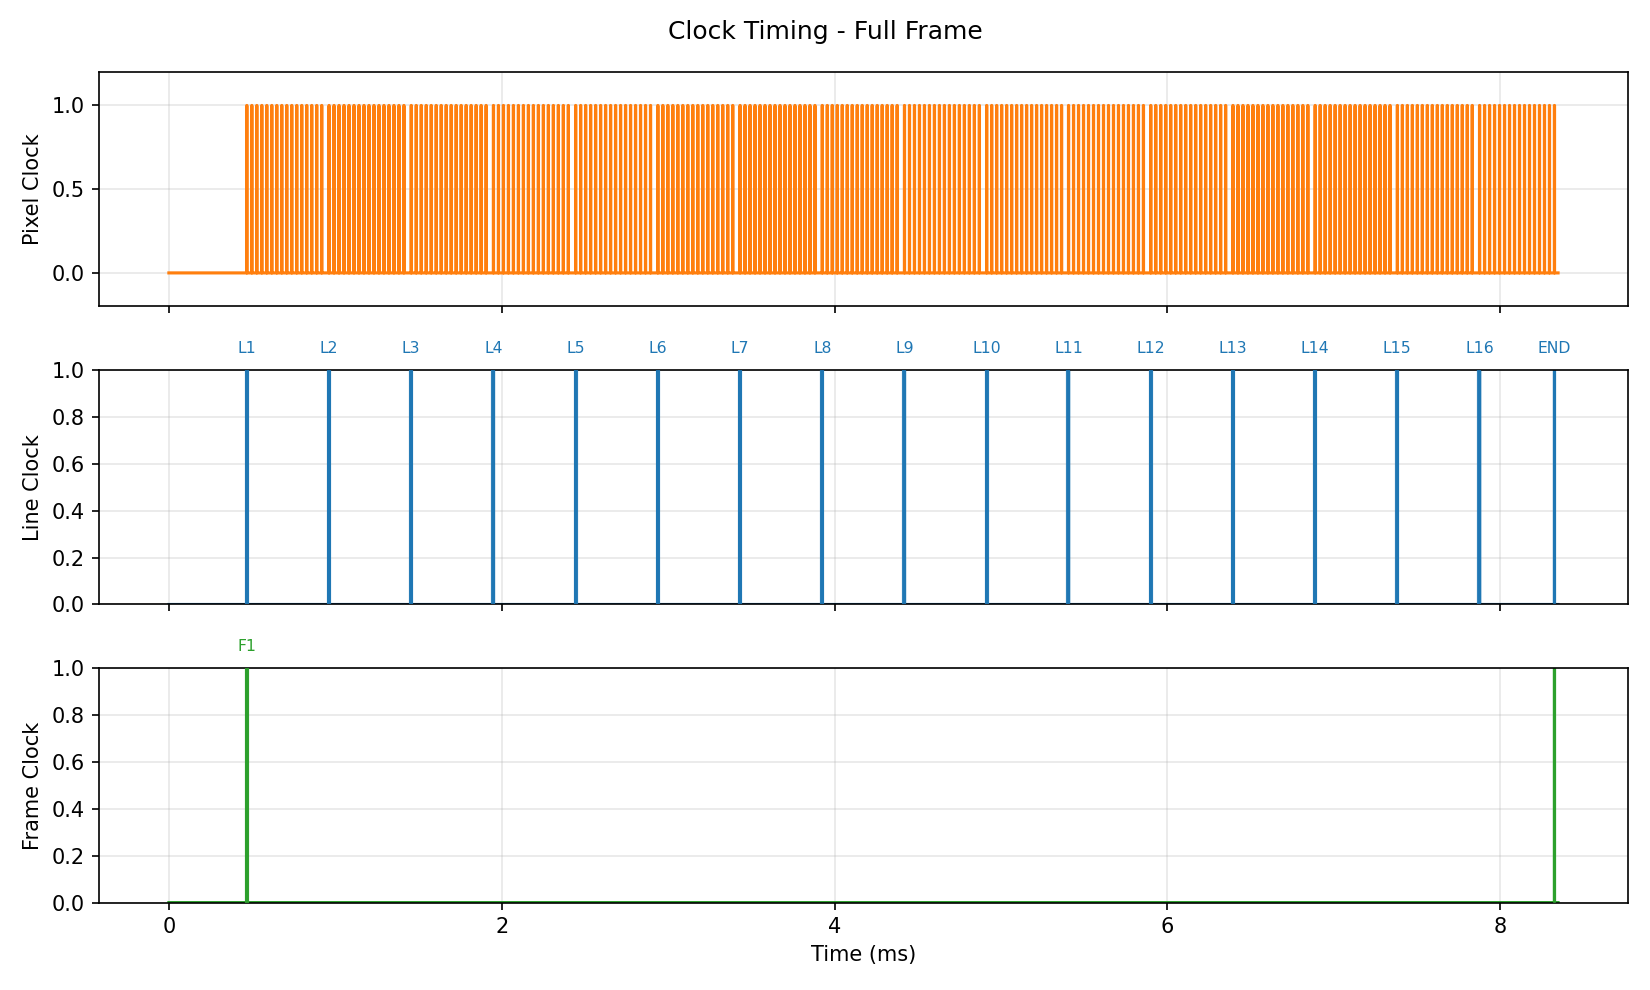
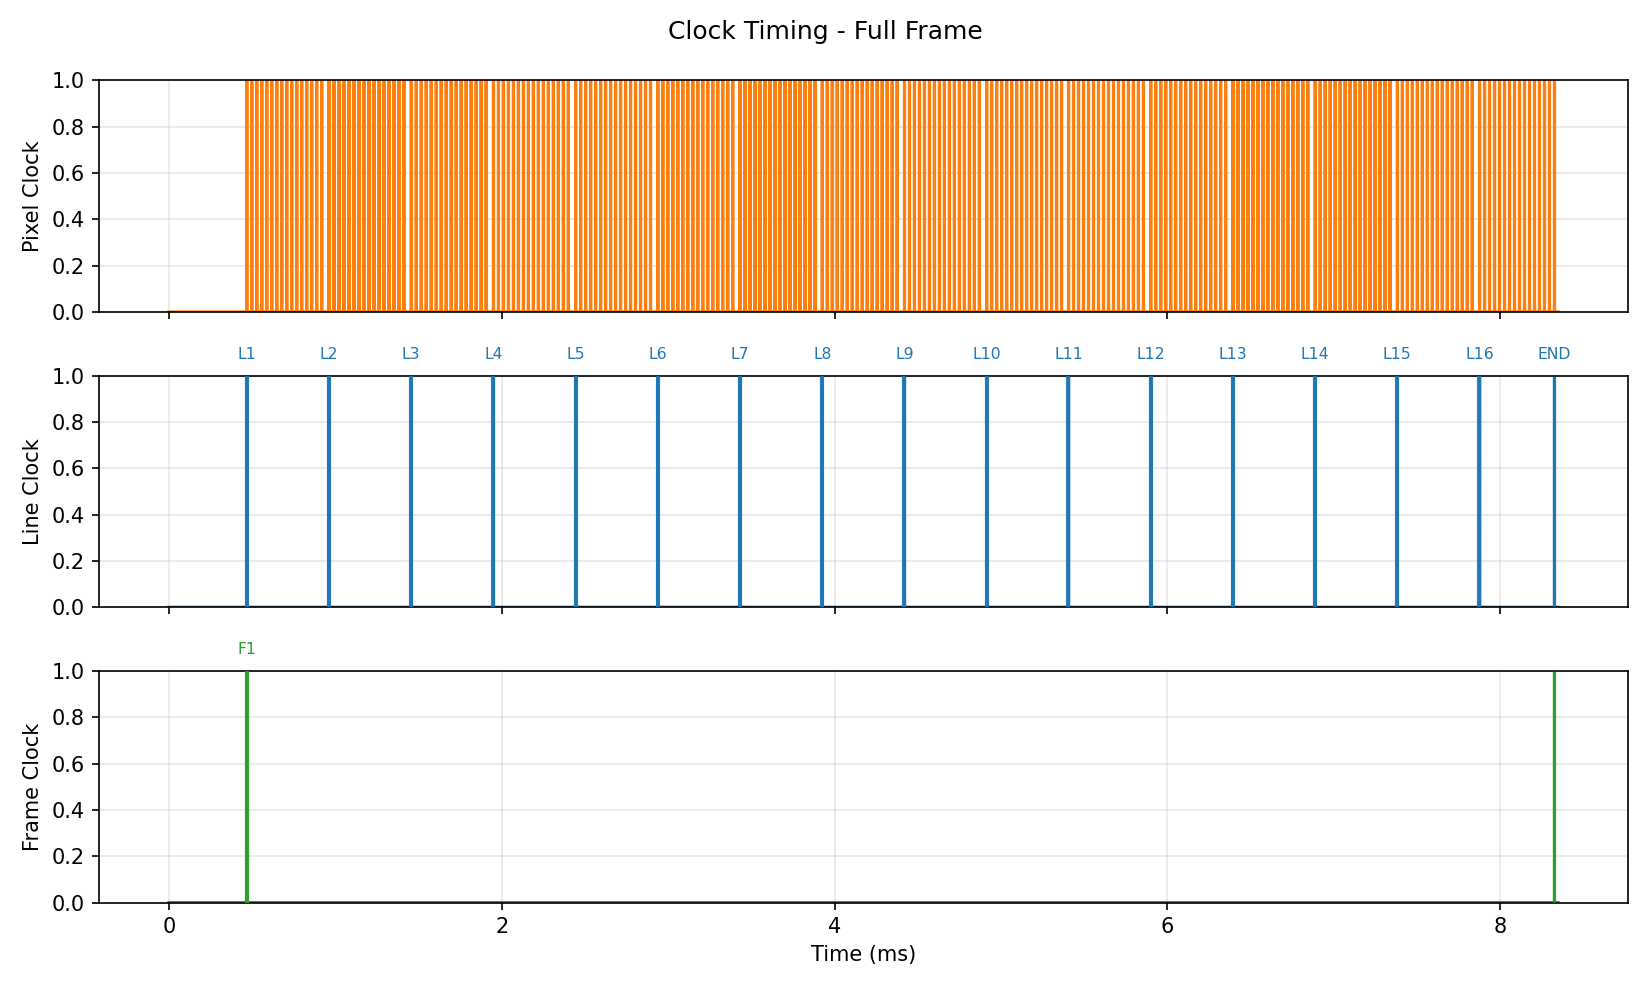
Clamp Pixel Clock plots to the same strict 0-1 y-axis range
Follow-up to the Line/Frame Clock 0-1 range change: Pixel Clock's
matplotlib lane (generate_clocks.py and visualize_clocks.py) was still
using the old (-0.2, 1.2) headroom since it carries no marker text.
Now all three lanes uniformly use ax.set_ylim(0, 1).

diff --git a/visualize_clocks.py b/visualize_clocks.py
@@ -143,10 +143,7 @@ def plot_timing(df, out_path, sample_range=None, title_suffix=""):
     for ax, (label, sig, color) in zip(axes, signals):
         ax.set_facecolor(COLOR_BG)
         ax.step(t_ms, sig, where="post", color=color, linewidth=1.8)
-        # Line/Frame Clock lanes stay strictly within the 0-1 digital range;
-        # Pixel Clock keeps a little headroom since it has no marker text
-        # floating above it that needs the extra room.
-        ax.set_ylim(0, 1) if label in ("Line Clock", "Frame Clock") else ax.set_ylim(-0.2, 1.2)
+        ax.set_ylim(0, 1)  # all three lanes confined to the strict digital 0-1 range
         ax.set_ylabel(label, color=COLOR_INK_DIM)
         ax.tick_params(colors=COLOR_INK_DIM)
         ax.grid(color=COLOR_GRID, linewidth=0.7, alpha=0.8)

diff --git a/generate_clocks.py b/generate_clocks.py
@@ -460,10 +460,7 @@ def plot_timing(built, sample_rate_hz, out_path, sample_range=None, title_suffix
     ]
     for ax, (label, sig, color) in zip(axes, signals):
         ax.step(t, sig, where="post", color=color, linewidth=1.5)
-        # Line/Frame Clock lanes stay strictly within the 0-1 digital range;
-        # Pixel Clock keeps a little headroom since it has no marker text
-        # floating above it that needs the extra room.
-        ax.set_ylim(0, 1) if label in ("Line Clock", "Frame Clock") else ax.set_ylim(-0.2, 1.2)
+        ax.set_ylim(0, 1)  # all three lanes confined to the strict digital 0-1 range
         ax.set_ylabel(label)
         ax.grid(alpha=0.3)
 
